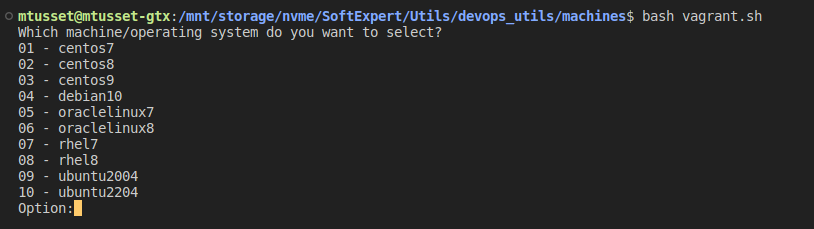
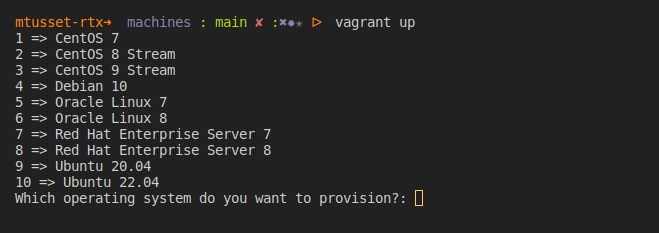
substituido vagrant.sh pelo vagrantfile estruturado

Changed region(s): [[0.0, 0.0306, 0.9408, 0.9476]]

diff --git a/machines/README.md b/machines/README.md
@@ -22,14 +22,10 @@ Sendo assim, segue abaixo tutorial de uso e das dependências necessárias:
 ## Provisionando máquina virtual:
 **Nesse caso de uso, estamos usando o virtualbox como provedor das máquinas virtuais**
 
-1. Acesse o diretório que contém o script vagrant.sh (caso ainda não tenha acessado):
+1. Rode o comando para escolher o sistema operacional da máquina virtual que deseja provisionar:
 ```shell
 cd machines/
-```
-
-2. Rode o comando para escolher o sistema operacional da máquina virtual que deseja provisionar:
-```shell
-bash vagrant.sh up
+vagrant up
 ```
 
 3. O script irá questionar pedindo o número do sistema operacional desejado, assim, deve-se informar conforme a lista de opcões:
@@ -49,7 +45,7 @@ bash vagrant.sh up
 1. Após criada a máquina virtual, pode-se conectar na mesma via ssh, assim comecamos novamente executando o script vagrant.sh
 ```shell
 cd machines/
-bash vagrant.sh ssh
+vagrant ssh
 ```
 
 2. Ao executar o script, informe o número do sistema operacional o qual se refere a máquina que você deseja conectar.
@@ -61,7 +57,7 @@ bash vagrant.sh ssh
 1. Para destruir uma máquina virtual com vagrant, deve-se rodar novamente o script vagrant.sh conforme abaixo:
 ```shell
 cd machines/
-bash vagrant.sh destroy
+vagrant destroy
 ```
 
 2. Selecione o número do sistema operacional desejado o qual se refere a máquina virtual criada.
